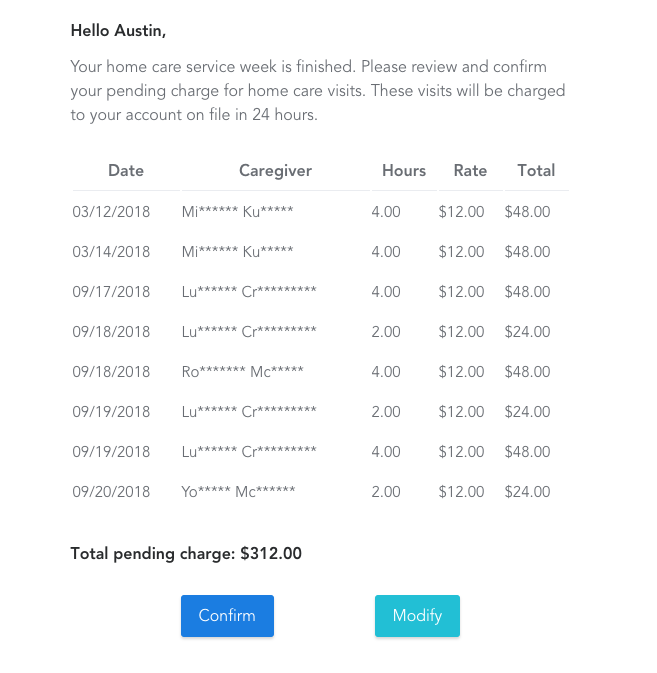
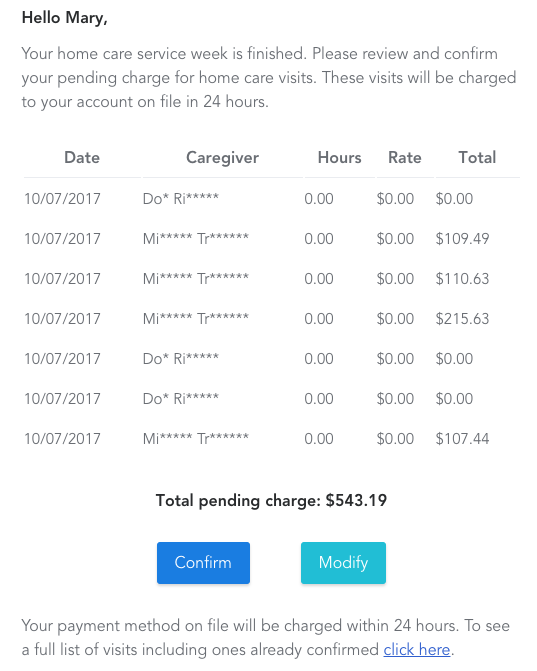
Modified shift confirmations email ALLY-564

diff --git a/resources/views/emails/client/shift-summary.blade.php b/resources/views/emails/client/shift-summary.blade.php
@@ -24,9 +24,9 @@ Your home care service week is finished. Please review and confirm your pending 
                                 <td>
                                     <a href="{{ $confirmUrl }}" class="button button-green" target="_blank">Confirm</a>
                                 </td>
-                                {{-- <td style="padding-left: 50px">
+                                <td style="padding-left: 50px">
                                     <a href="{{ $modifyUrl }}" class="button button-blue" target="_blank">Modify</a>
-                                </td> --}}
+                                </td>
                             </tr>
                         </table>
                     </td>
@@ -35,6 +35,10 @@ Your home care service week is finished. Please review and confirm your pending 
         </td>
     </tr>
 </table>
+
+Your payment method on file will be charged within 24 hours. To see a full list of visits including ones already confirmed <a href="{{ route('client.shift-history') }}">click here</a>.
+
+Please do not reply to this email.
 
 <br/>
 

diff --git a/routes/web.php b/routes/web.php
@@ -58,7 +58,7 @@ Route::group([
     'roles' => ['client'],
 ], function () {
     Route::post('shift-history/approve', 'Clients\ShiftController@approveWeek');
-    Route::get('shift-history/{week?}', 'Clients\ShiftController@index');
+    Route::get('shift-history/{week?}', 'Clients\ShiftController@index')->name('client.shift-history');
     Route::get('payment-history/{id}/print', 'Clients\PaymentHistoryController@printDetails');
     Route::resource('payment-history', 'Clients\PaymentHistoryController');
     Route::post('/profile/payment/{type}', 'ProfileController@paymentMethod');
